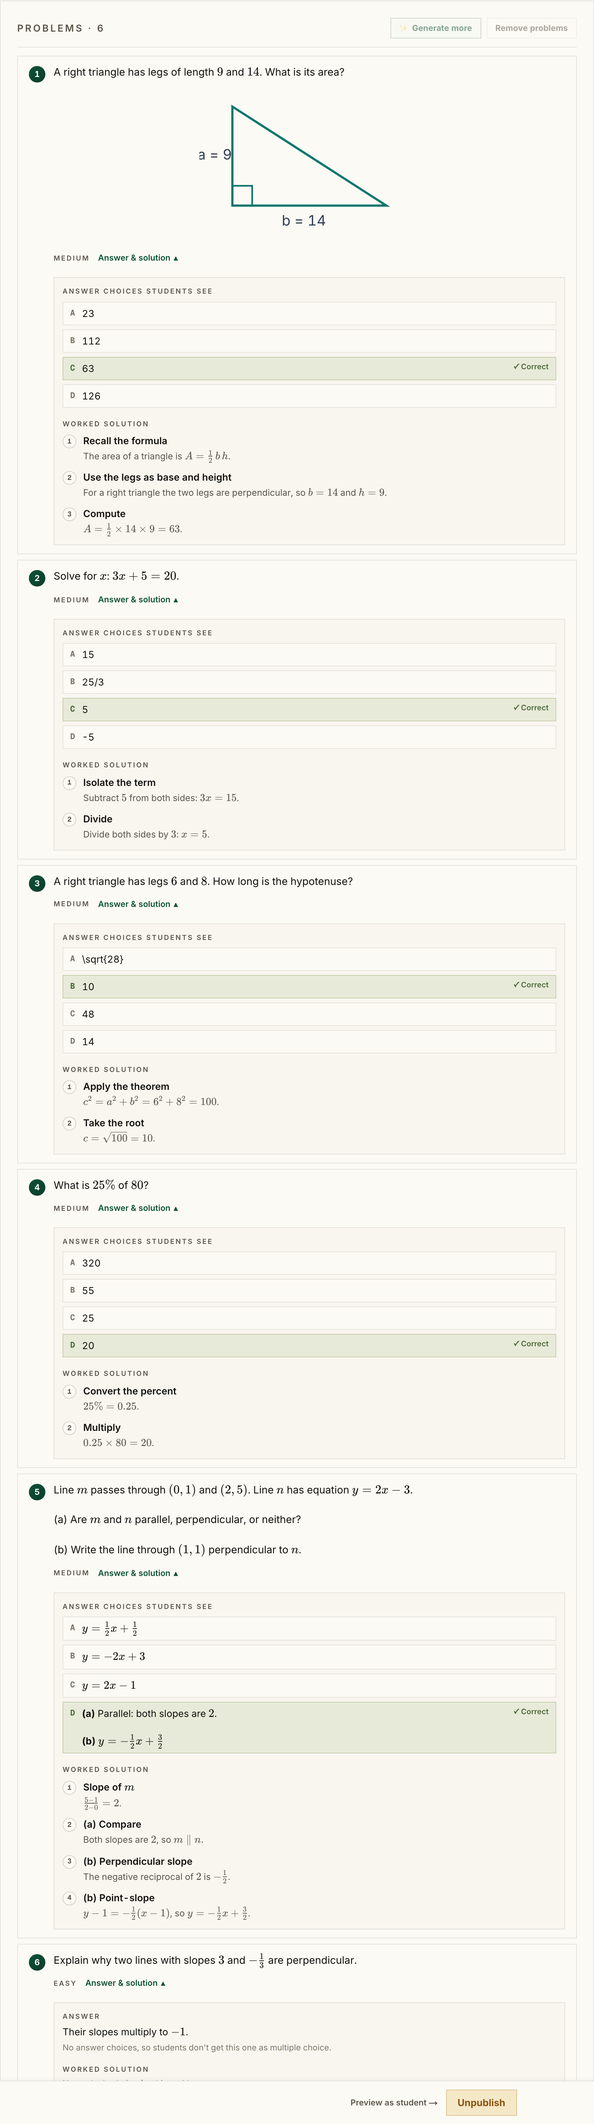
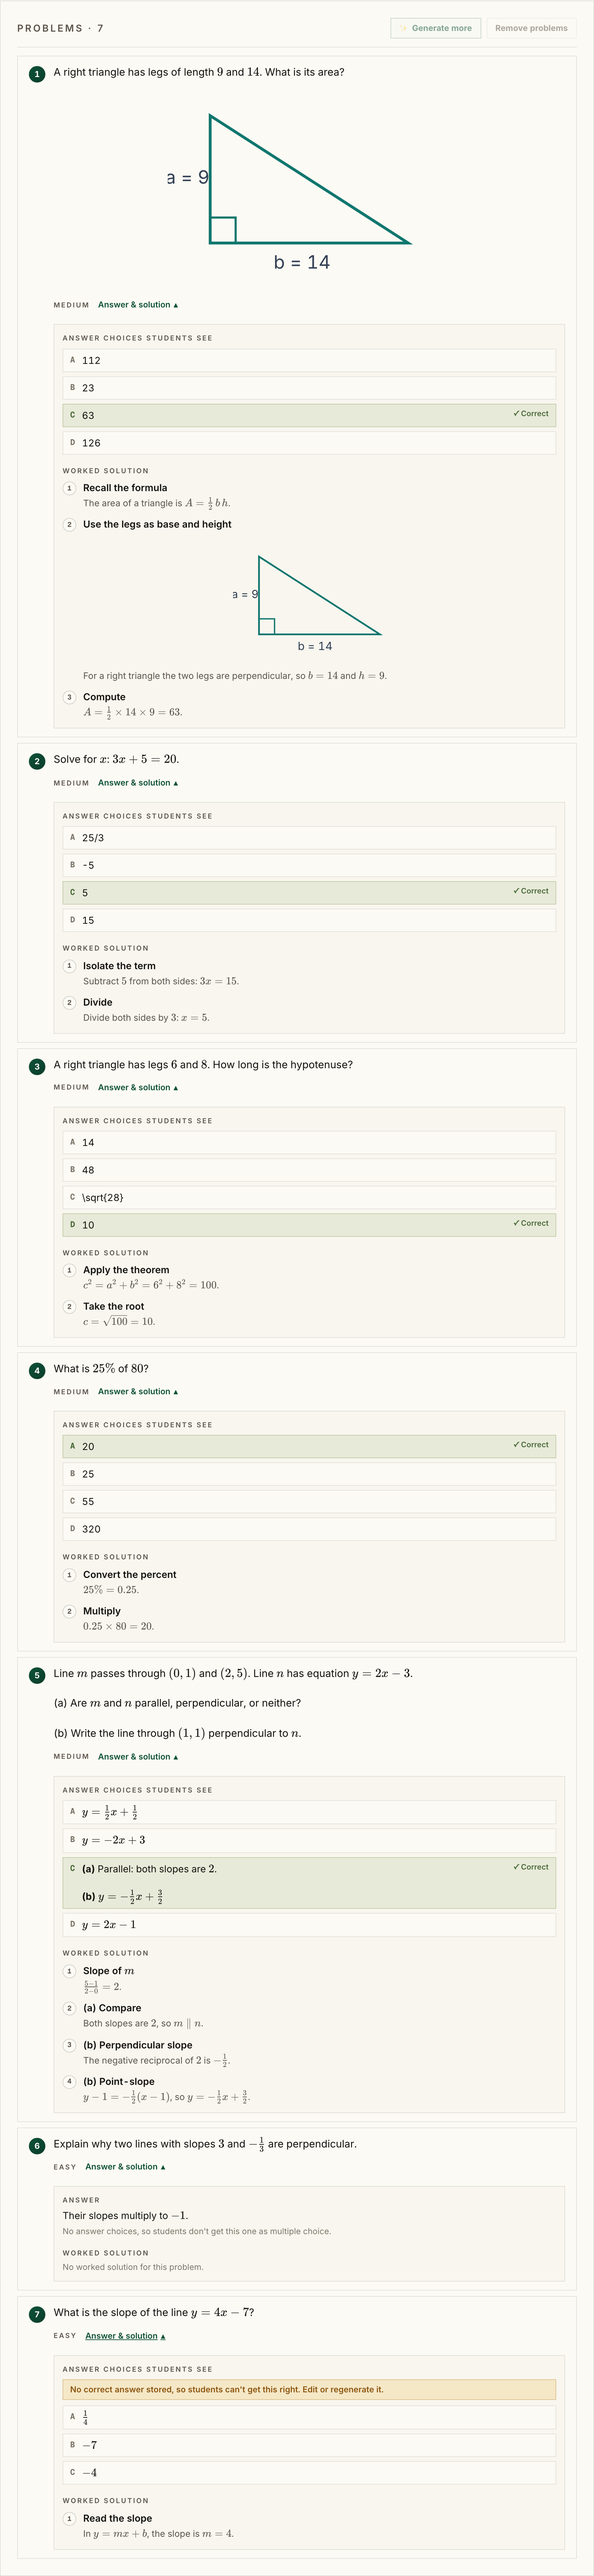
fix: practice view step figures, blank-answer warning, figure a11y
Render each worked-solution step's figure with FigureDisplay as the
student Learn view does; warn when a problem has choices but no stored
correct answer; give the question figure a problem-specific label and
drop the mt-2 that fought FigureDisplay's own my-3.

Claude-Session: https://claude.ai/code/session_01G6C8ExqtfnML3bPFwxdP8h

diff --git a/web/src/app/(app)/school/teacher/courses/[id]/homework/[hwId]/page.tsx b/web/src/app/(app)/school/teacher/courses/[id]/homework/[hwId]/page.tsx
@@ -51,7 +51,7 @@ interface AssignmentProblem {
   question: string;
   /** Pre-rendered geometry SVG; null when the problem has no figure. */
   figure_svg: string | null;
-  solution_steps: { title: string; description: string }[] | null;
+  solution_steps: { title: string; description: string; figure_svg?: string | null }[] | null;
   final_answer: string | null;
   /** Practice only: the wrong options the student runner mixes with
    *  final_answer to make each problem multiple choice. */
@@ -1814,7 +1814,11 @@ function ProblemRow({
             <MathText text={problem.question} />
           </div>
           {open && problem.figure_svg && (
-            <FigureDisplay svg={problem.figure_svg} className="mt-2 max-h-56" />
+            // FigureDisplay owns its vertical rhythm (my-3), so no margin here.
+            <FigureDisplay
+              svg={problem.figure_svg}
+              ariaLabel={`Figure for problem ${problem.position}`}
+            />
           )}
           <div className="mt-1.5 flex flex-wrap items-center gap-x-3 gap-y-1">
             {pointsBox("order-last ml-auto flex sm:hidden")}
@@ -1938,6 +1942,15 @@ function PracticeProblemDetail({ id, problem }: { id: string; problem: Assignmen
       {choices.length >= 2 ? (
         <section>
           <h4 className={label}>Answer choices students see</h4>
+          {!correct && (
+            <p
+              role="alert"
+              className="mt-2 rounded-[--radius-sm] border border-[color:var(--color-warning)]/30 bg-[color:var(--color-warning-bg)] px-2.5 py-1.5 text-xs font-semibold text-[color:var(--color-warning-dark)]"
+            >
+              No correct answer stored, so students can&apos;t get this right.
+              Edit or regenerate it.
+            </p>
+          )}
           <ol className="mt-2 space-y-1.5">
             {choices.map((c, i) => {
               const isCorrect = c === correct;
@@ -1996,6 +2009,15 @@ function PracticeProblemDetail({ id, problem }: { id: string; problem: Assignmen
                       <MathText text={s.title} />
                     </div>
                   )}
+                  {/* Same per-step figure the student's Learn view shows
+                      (step-timeline.tsx). */}
+                  <FigureDisplay
+                    svg={s.figure_svg}
+                    className="max-h-44"
+                    ariaLabel={
+                      s.title ? `Figure for step ${i + 1}: ${s.title}` : `Figure for step ${i + 1}`
+                    }
+                  />
                   <div className="mt-0.5 text-[13px] leading-relaxed text-text-secondary">
                     <MathText text={s.description} />
                   </div>
